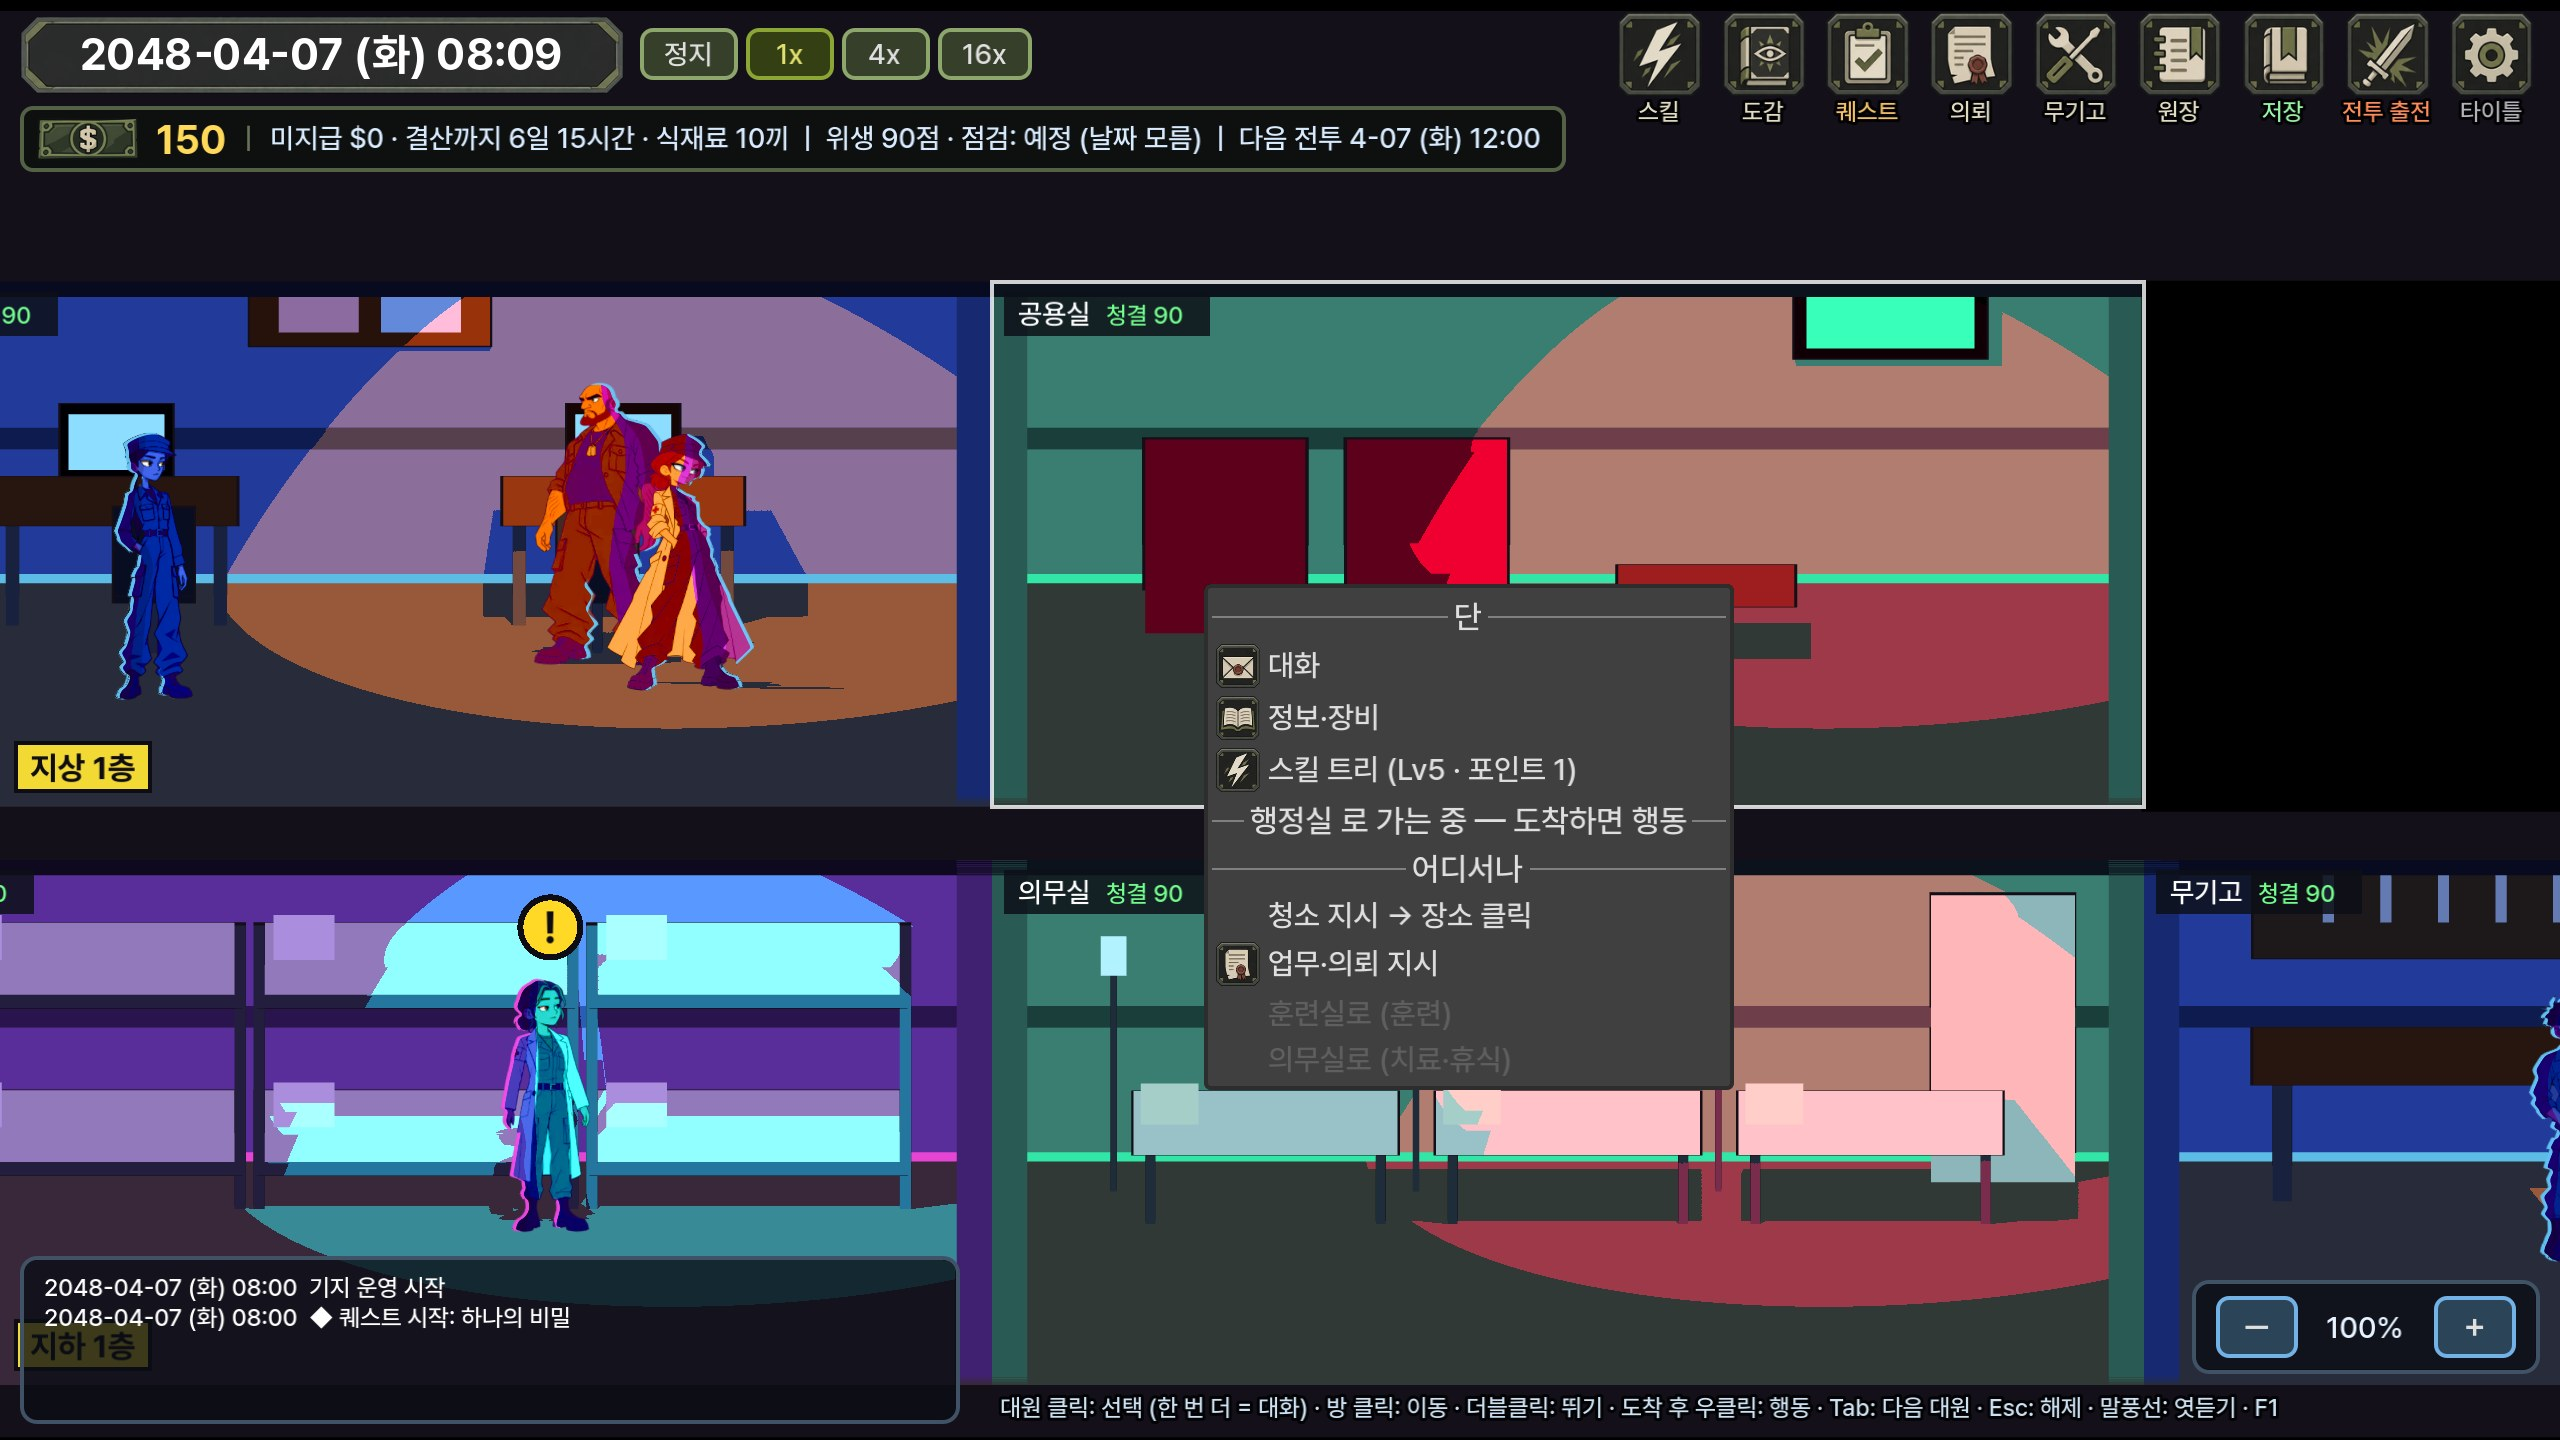
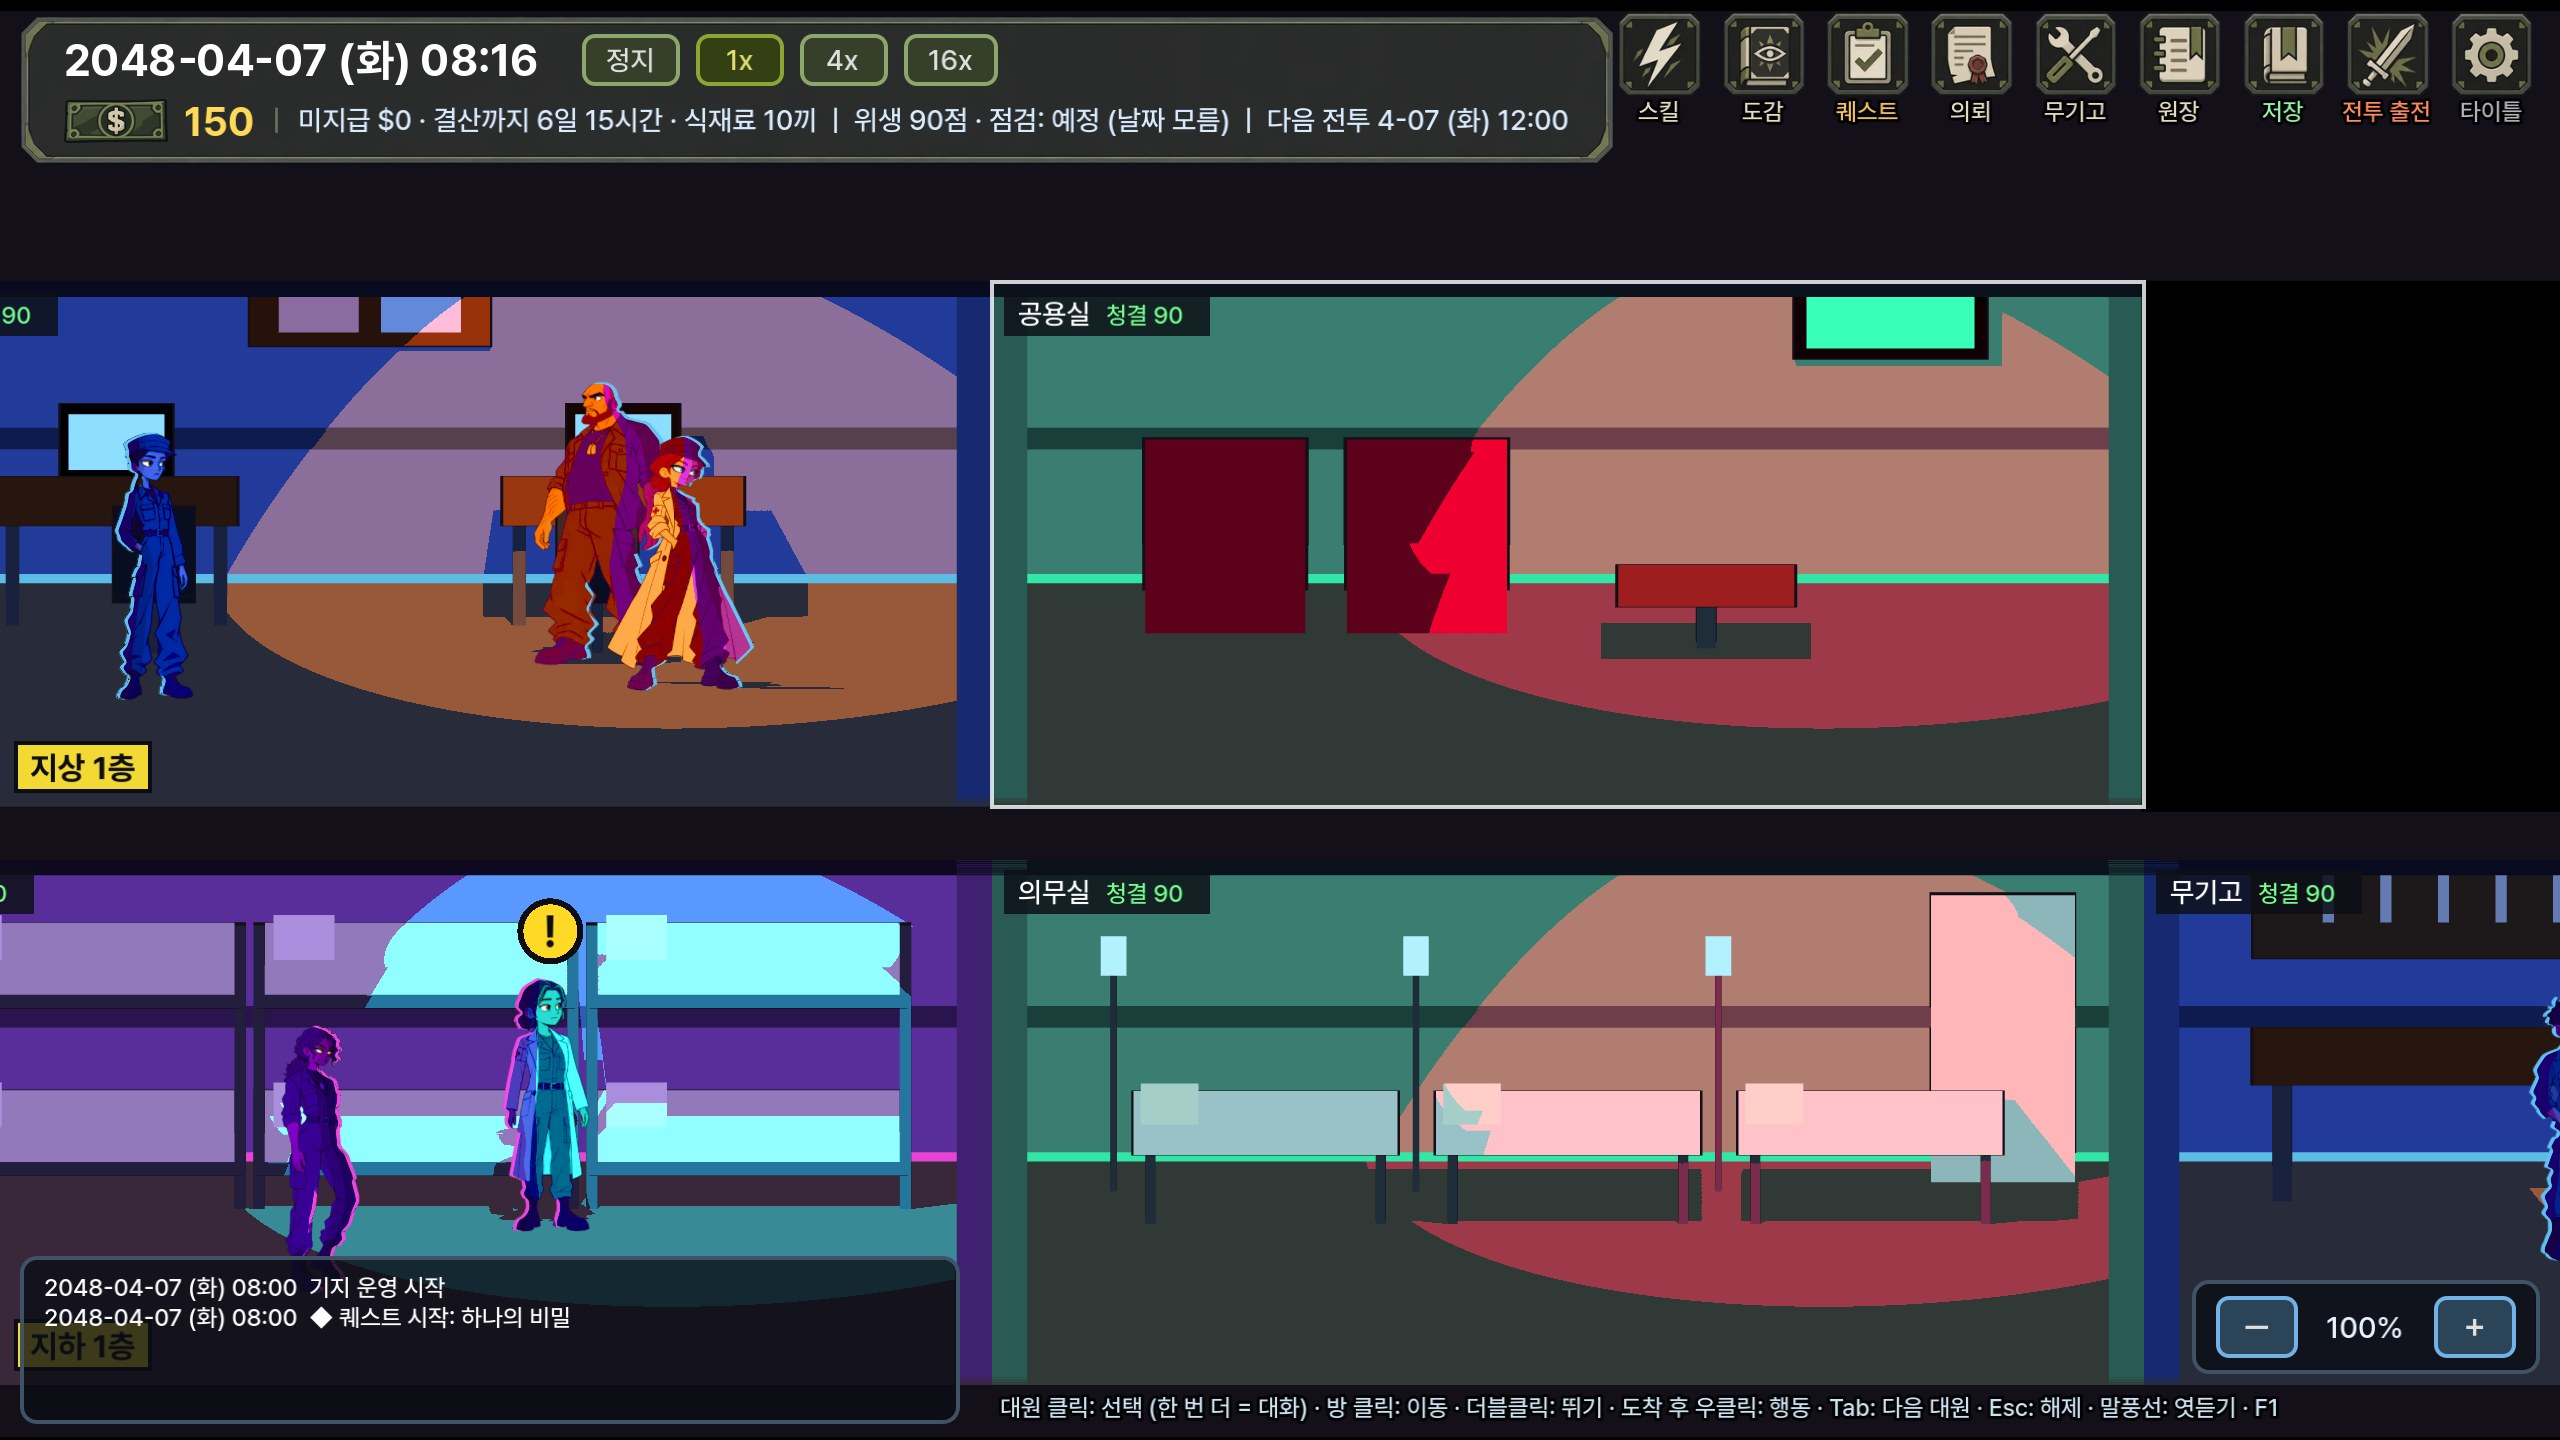
기지 상단: 날짜 바 그림이 날짜 · 속도 · 돈 · 정보 줄 전체를 감싸게
- 왼쪽 위 묶음 하나에 day_bar 9칸 늘리기 배경 (양 끝 44px · 위아래 20px 고정)
- 정보 줄이 길어져 오른쪽 아이콘 버튼에 닿으면 글자 14 → 12 → 11 (글이 바뀔 때만 확인)
- README · 결정 로그, 스크린샷 outgame_top_ui.jpg

Claude-Session: https://claude.ai/code/session_014aytw3hj7boqn3SZ5GP5ti

diff --git a/README.md b/README.md
@@ -291,7 +291,7 @@ git 이 없는 설치(zip)는 같은 설치 명령을 다시 실행하면 최신
 ![스토리 흐름 탭 — 선 고름 · 선 긋는 중](docs/screenshots/story_editor_edit.png)
 
 ## 기지 상단 UI
-- 왼쪽 위: **날짜 바**(`assets/ui/outgame/day_bar.png` — 양 끝 팔각 모서리는 그대로, 가운데만 날짜 길이만큼 늘림) + 속도 버튼 · 그 아래 **지폐 그림**(`money.png`) + 돈 · 정보 줄.
+- 왼쪽 위: **날짜 바**(`assets/ui/outgame/day_bar.png`) 한 장이 날짜 · 속도 버튼 · **지폐 그림**(`money.png`) + 돈 · 정보 줄을 모두 감쌈 (양 끝 팔각 모서리는 그대로, 가운데만 내용 크기만큼 늘림). 정보 줄이 길어져 오른쪽 아이콘 버튼에 닿으면 정보 줄 글자를 14 → 12 → 11 로 줄임.
 - 오른쪽 위: **아이콘 버튼** + 아래 이름 — 스킬(번개) · 도감(눈 달린 책) · 퀘스트(체크 클립보드) · 의뢰(봉인 문서) · 무기고(공구) · 원장(장부) · 저장(책갈피) · 전투 출전(검) · 타이틀(톱니). 마우스를 올리면 밝게 · 살짝 커짐, 툴팁 = 이름.
 - 대원 우클릭 메뉴에도 아이콘: 대화(편지) · 무기 연구(돋보기) · 정보·장비(책) · 스킬 트리(번개) · 업무·의뢰 지시(문서).
 - 아이콘 20개 = 사용자 UI 패키지에서 잘라 `assets/ui/outgame/icons/<이름>.png` (96×96): skill · sword · faith · levelup · book · codex · search · bookmark · contract · quest · mail · scroll · schedule · calendar_check · ledger · calendar · gear · tools · sliders · gear_wrench. 원본 `art_src/ui/`.

diff --git a/docs/design/00_decision_log_v1_0.md b/docs/design/00_decision_log_v1_0.md
@@ -459,7 +459,7 @@
   - 림은 항상 켬: 두 번째 조명이 있으면 그 색 · 세기, 없으면 방 프리셋 accent · char_accent_mix. 방향은 그대로 실시간 주조명 반대쪽. 전투(3D 배경 탐침)는 그대로.
 
 - **2026-10-30 기지 상단 UI 그림 · 신 아이콘 · 키라 쓰러짐** (사용자 제공 그림)
-  - 날짜 바(day) = 날짜 표시 배경, 9칸 늘리기(양 끝 44px 고정)로 날짜 글 길이에 맞춤. 지폐 = 돈 옆 (글자의 $ 는 뺌). 정보 줄은 아래 작은 패널 — 예전 큰 패널이 오른쪽 버튼과 24px 겹치던 것도 해소.
+  - 날짜 바(day) = 왼쪽 위 묶음 전체(날짜 · 속도 · 돈 · 정보 줄)의 배경 (사용자 정정 — 처음엔 날짜 글자만 감쌌음), 9칸 늘리기(양 끝 44px · 위아래 20px 고정). 지폐 = 돈 옆 (글자의 $ 는 뺌). 오른쪽 버튼에 닿으면 정보 줄 글자를 줄여 겹치지 않게.
   - UI 패키지 20개를 잘라 이름 붙여 둠. 상단 버튼 배정(그림 보고 정함): 스킬=번개 · 도감=눈 달린 책 · 퀘스트=체크 클립보드 · 의뢰=봉인 문서 · 무기고=공구 · 원장=장부 · 저장=책갈피 · 전투 출전=검 · 타이틀=톱니. 이름은 아이콘 아래 작게 (처음 보는 사람도 알게).
   - 정보 = 대원 우클릭 메뉴 '정보·장비'로 보고 책 아이콘 (메뉴의 대화 · 연구 · 스킬 · 의뢰 지시에도).
   - 신 아이콘 7개: 파일 이름 = 신 id, icon-omega 는 데이터 id 가 omrga 라 그쪽으로. 원본 1254px → 256px.
